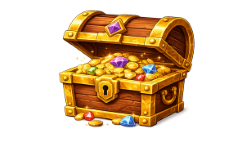
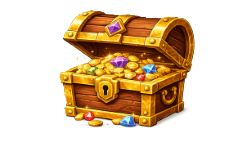
shadows

diff --git a/components/AnimatedMonster.js b/components/AnimatedMonster.js
@@ -1,5 +1,5 @@
 import React, { useEffect, useRef } from 'react';
-import { Animated, Easing, StyleSheet, View } from 'react-native';
+import { Animated, Easing, Platform, StyleSheet, View } from 'react-native';
 import MonsterPreview from './MonsterPreview';
 import { getMonsterIdleProfile } from '../utils/monsterIdleMotion';
 import { getMonsterImageAsset } from '../utils/monsterImageAssets';
@@ -310,21 +310,22 @@ export default function AnimatedMonster({
   });
   const glowOpacity = ragePulse.interpolate({ inputRange: [0, 1], outputRange: [0.4, 0.8] });
 
+  const shadowW = scaledSize * 0.56;
+  const shadowH = Math.max(8, scaledSize * 0.09);
+
   return (
     <View style={styles.wrap}>
       <View
+        pointerEvents="none"
         style={[
           styles.groundShadow,
-          { width: scaledSize * 0.82, height: scaledSize * 0.13, borderRadius: scaledSize },
+          {
+            width: shadowW,
+            height: shadowH,
+            borderRadius: shadowH,
+          },
         ]}
-      >
-        <View
-          style={[
-            styles.groundShadowCore,
-            { width: scaledSize * 0.54, height: scaledSize * 0.075, borderRadius: scaledSize },
-          ]}
-        />
-      </View>
+      />
       {rage ? (
         <Animated.View
           pointerEvents="none"
@@ -356,7 +357,7 @@ export default function AnimatedMonster({
         ]}
       >
         <Animated.View style={[styles.fadeDodge, { opacity: dodgeOp }]}>
-          <MonsterPreview parts={parts} size={scaledSize} mood={mood} />
+          <MonsterPreview parts={parts} size={scaledSize} mood={mood} hideBuiltInShadow />
         </Animated.View>
       </Animated.View>
     </View>
@@ -370,18 +371,23 @@ const styles = StyleSheet.create({
   },
   groundShadow: {
     position: 'absolute',
-    bottom: 2,
-    alignItems: 'center',
-    justifyContent: 'center',
-    backgroundColor: 'rgba(0, 0, 0, 0.36)',
-    opacity: 0.82,
-  },
-  groundShadowCore: {
-    backgroundColor: 'rgba(0, 0, 0, 0.48)',
+    bottom: 6,
+    alignSelf: 'center',
+    backgroundColor: 'rgba(12, 18, 32, 0.34)',
+    ...(Platform.OS === 'web'
+      ? { boxShadow: '0 6px 18px rgba(0, 0, 0, 0.38)' }
+      : {
+          shadowColor: '#000',
+          shadowOffset: { width: 0, height: 2 },
+          shadowOpacity: 0.38,
+          shadowRadius: 10,
+          elevation: 3,
+        }),
   },
   core: {
     alignItems: 'center',
     justifyContent: 'center',
+    zIndex: 2,
   },
   fadeDodge: {
     alignItems: 'center',

diff --git a/components/monsters/MonsterLayerStack.js b/components/monsters/MonsterLayerStack.js
@@ -5,6 +5,7 @@ import { ThemedMonsterBody } from '../themedMonsterBodies';
 import MonsterGearLayers from '../MonsterGearLayers';
 import { LayerAura, LayerRarityRim, LayerShadow } from '../../art/monsters/layerPrimitives';
 import { ART } from '../../utils/artDirection';
+import { BattleShadingContext } from './BattleShadingContext';
 
 /**
  * Layered monster renderer — shadow → aura → body → gear (front).
@@ -35,29 +36,31 @@ export default function MonsterLayerStack({
   const rimColor = themePalette?.glow ?? themeAura ?? ART.crit;
 
   return (
-    <View style={{ width: size, height: size, alignSelf: 'center' }}>
-      <Svg width={size} height={size} viewBox="0 0 200 200">
-        <G>
-          {showShadow ? <LayerShadow /> : null}
-          <LayerAura color={themeAura} />
-          {showRarityRim ? <LayerRarityRim color={rimColor} /> : null}
-          <ThemedMonsterBody
-            themeBody={themeBody}
-            stroke={stroke}
-            ST={ST}
-            e={e}
-            m={m}
-            mood={mood}
-            eyeWhite={eyeWhite}
-            pupil={pupil}
-            palette={themePalette}
-            archetype={themeArchetype}
-            evolutionTier={tier}
-            visualFormTier={tier}
-          />
-          <MonsterGearLayers cosmetics={cosmetics} stroke={stroke} ST={ST} />
-        </G>
-      </Svg>
-    </View>
+    <BattleShadingContext.Provider value={!showShadow}>
+      <View style={{ width: size, height: size, alignSelf: 'center' }}>
+        <Svg width={size} height={size} viewBox="0 0 200 200">
+          <G>
+            {showShadow ? <LayerShadow /> : null}
+            <LayerAura color={themeAura} />
+            {showRarityRim ? <LayerRarityRim color={rimColor} /> : null}
+            <ThemedMonsterBody
+              themeBody={themeBody}
+              stroke={stroke}
+              ST={ST}
+              e={e}
+              m={m}
+              mood={mood}
+              eyeWhite={eyeWhite}
+              pupil={pupil}
+              palette={themePalette}
+              archetype={themeArchetype}
+              evolutionTier={tier}
+              visualFormTier={tier}
+            />
+            <MonsterGearLayers cosmetics={cosmetics} stroke={stroke} ST={ST} />
+          </G>
+        </Svg>
+      </View>
+    </BattleShadingContext.Provider>
   );
 }

diff --git a/components/MonsterPreview.js b/components/MonsterPreview.js
@@ -79,9 +79,15 @@ function BodyGrad({ children, gid, light, dark }) {
  * Whimsical SVG monster — thick cartoon outline, soft shadow, optional cosmetics & mood.
  *
  * `parts`: body, head, eyes, mouth, horn, tail, hands, legs, colorIdx, cosmetics?: string[]
- * @param {{ parts: object, size?: number, mood?: MonsterMood, counterMirror?: boolean }} props
+ * @param {{ parts: object, size?: number, mood?: MonsterMood, counterMirror?: boolean, hideBuiltInShadow?: boolean }} props
  */
-export default function MonsterPreview({ parts, size = 200, mood = 'neutral', counterMirror = false }) {
+export default function MonsterPreview({
+  parts,
+  size = 200,
+  mood = 'neutral',
+  counterMirror = false,
+  hideBuiltInShadow = false,
+}) {
   const instanceId = useId().replace(/:/g, '');
   const safe = parts && typeof parts === 'object' ? parts : null;
   const ST = 5;
@@ -184,17 +190,17 @@ export default function MonsterPreview({ parts, size = 200, mood = 'neutral', co
           {themeEmoji}
         </Text>
       ) : null}
-      {!hasThemedSilhouette ? (
+      {!hasThemedSilhouette && !hideBuiltInShadow ? (
       <View
         style={{
           position: 'absolute',
           bottom: size * 0.04,
-          left: size * 0.12,
-          width: size * 0.76,
-          height: size * 0.1,
-          borderRadius: size,
+          left: size * 0.18,
+          width: size * 0.64,
+          height: size * 0.08,
+          borderRadius: size * 0.04,
           backgroundColor: ART.shadowDeep,
-          opacity: 0.28,
+          opacity: 0.26,
         }}
       />
       ) : null}
@@ -206,6 +212,7 @@ export default function MonsterPreview({ parts, size = 200, mood = 'neutral', co
           themePalette={themePalette}
           themeArchetype={themeArchetype}
           showRarityRim={safe.rarity === 'legendary' || safe.rarity === 'mythic'}
+          showShadow={!hideBuiltInShadow}
           stroke={stroke}
           ST={ST}
           e={e}

diff --git a/art/monsters/layerPrimitives.js b/art/monsters/layerPrimitives.js
@@ -1,10 +1,13 @@
 import React from 'react';
 import { Circle, Defs, Ellipse, G, LinearGradient, RadialGradient, Stop } from 'react-native-svg';
 
-/** Ground shadow — fake depth under monster */
-export function LayerShadow({ cx = 100, cy = 190, rx = 58, ry = 13, opacity = 0.38 }) {
+/** Ground shadow — soft contact oval (menus / collection only; battle uses AnimatedMonster shadow) */
+export function LayerShadow({ cx = 100, cy = 192, rx = 44, ry = 10, opacity = 0.3 }) {
   return (
-    <Ellipse cx={cx} cy={cy} rx={rx} ry={ry} fill="#1a203a" opacity={opacity} />
+    <G>
+      <Ellipse cx={cx} cy={cy} rx={rx * 1.08} ry={ry * 1.15} fill="#1a203a" opacity={opacity * 0.45} />
+      <Ellipse cx={cx} cy={cy} rx={rx} ry={ry} fill="#1a203a" opacity={opacity} />
+    </G>
   );
 }
 
@@ -25,13 +28,13 @@ export function LayerAura({ color = '#a29bfe', cx = 100, cy = 118, r = 82, opaci
   );
 }
 
-/** Soft highlight blob for fake-3D shading on rounded bodies */
-export function LayerBodyHighlight({ cx = 88, cy = 100, rx = 24, ry = 30, opacity = 0.42 }) {
+/** Soft highlight blob for fake-3D shading on rounded bodies (collection / menu only) */
+export function LayerBodyHighlight({ cx = 88, cy = 92, rx = 22, ry = 26, opacity = 0.32 }) {
   return <Ellipse cx={cx} cy={cy} rx={rx} ry={ry} fill="#ffffff" opacity={opacity} />;
 }
 
-/** Core shadow on underside of mass */
-export function LayerCoreShadow({ cx = 100, cy = 148, rx = 40, ry = 18, opacity = 0.28 }) {
+/** Core shadow on underside of mass — kept above feet, not a long ground streak */
+export function LayerCoreShadow({ cx = 100, cy = 192, rx = 40, ry = 9, opacity = 0.26 }) {
   return <Ellipse cx={cx} cy={cy} rx={rx} ry={ry} fill="#1a203a" opacity={opacity} />;
 }
 

diff --git a/art/monsters/monsterRig.js b/art/monsters/monsterRig.js
@@ -1,5 +1,6 @@
-import React from 'react';
+import React, { useContext } from 'react';
 import { Circle, Defs, Ellipse, G, Line, LinearGradient, Path, Polygon, Rect, Stop } from 'react-native-svg';
+import { BattleShadingContext } from '../../components/monsters/BattleShadingContext';
 import { LayerBodyHighlight, LayerCoreShadow, LayerGradientDef, LayerSubsurface } from './layerPrimitives';
 
 export const DEFAULT_ST = 6;
@@ -20,14 +21,19 @@ export const DEFAULT_MONSTER_PALETTE = {
  * @param {{ gradId: string, palette: MonsterPalette, highlight?: object, shadow?: object, children: React.ReactNode }} p
  */
 export function ShadeBody({ gradId, palette, highlight, shadow, children }) {
+  const hideContactShading = useContext(BattleShadingContext);
   const hi = highlight ?? { cx: 82, cy: 96, rx: 26, ry: 32 };
-  const sh = shadow ?? { cx: 100, cy: 152, rx: 44, ry: 16 };
+  const sh = shadow ?? { cx: 100, cy: 192, rx: 42, ry: 9 };
   return (
     <G>
       <LayerGradientDef id={gradId} top={palette.light} bottom={palette.dark} mid={palette.base} />
       {children}
-      <LayerCoreShadow {...sh} />
-      <LayerBodyHighlight {...hi} />
+      {!hideContactShading ? (
+        <>
+          <LayerCoreShadow {...sh} />
+          <LayerBodyHighlight {...hi} />
+        </>
+      ) : null}
     </G>
   );
 }

diff --git a/components/monsters/BattleShadingContext.js b/components/monsters/BattleShadingContext.js
@@ -1,0 +1,4 @@
+import React from 'react';
+
+/** When true, themed bodies skip SVG foot shadows/highlights (battle uses AnimatedMonster ground shadow). */
+export const BattleShadingContext = React.createContext(false);
